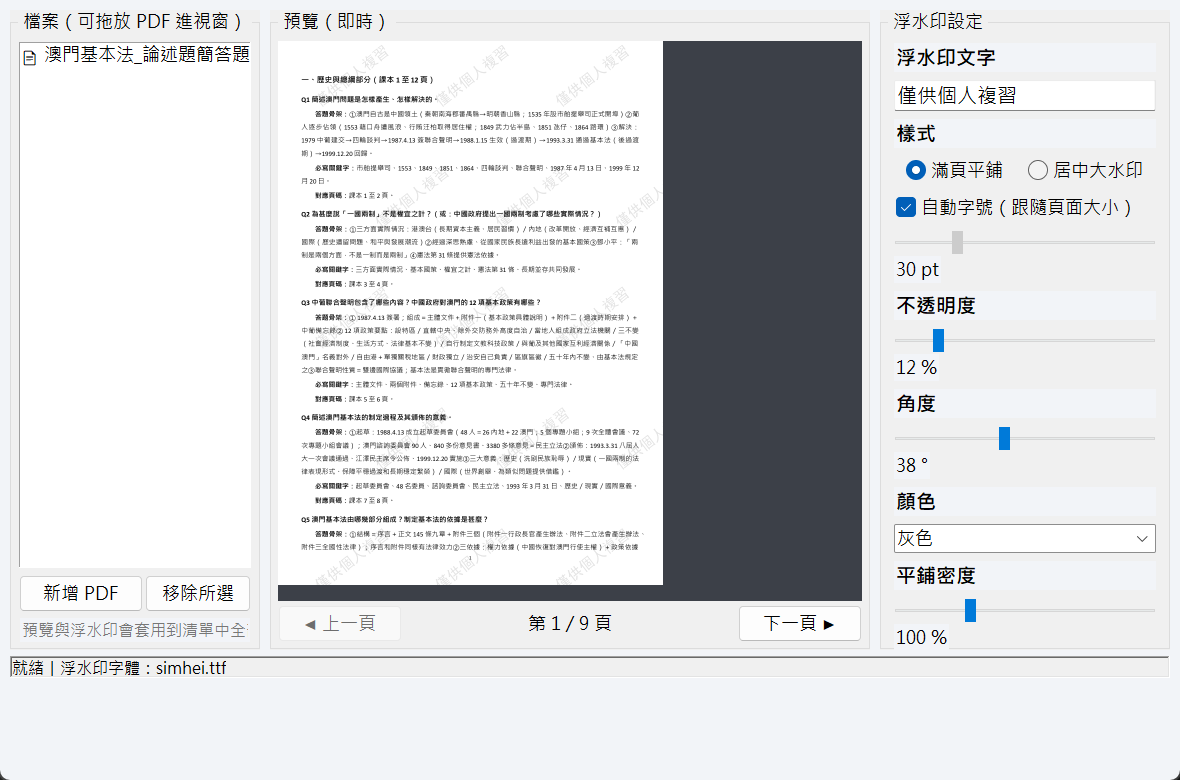
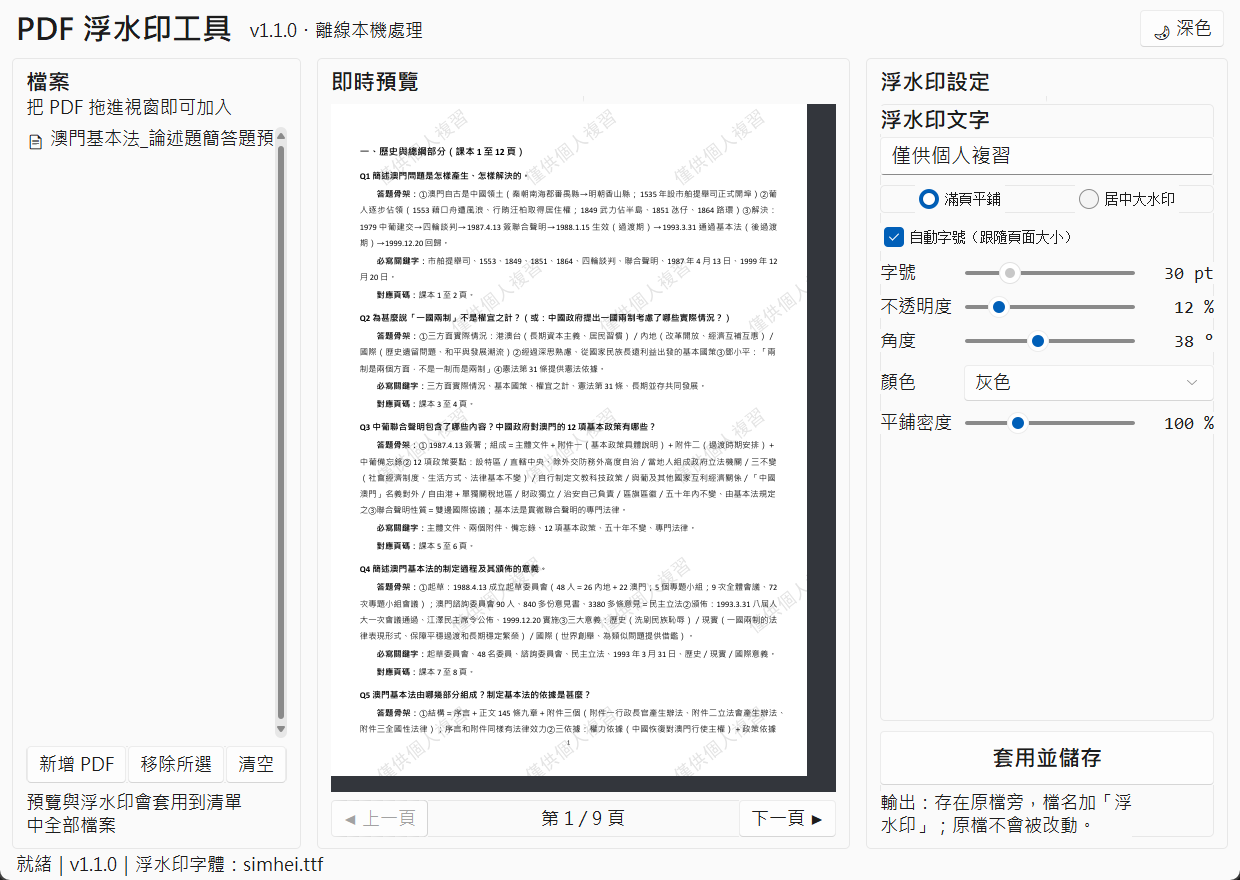
UI 大改版：Sun Valley 主題、卡片式版面、深淺色一鍵切換
- 改用 sv-ttk（Win11 風格 ttk 主題），右上角可切換深色／淺色
- 白卡片三欄版面、藍色強調主按鈕、自訂程式圖示
- 視窗標題列／工作列顯示自訂圖示（exe 內嵌 icon.ico）
- requirements 加 sv-ttk；pymupdf 維持 1.x（避免 2.x 體積膨脹）

diff --git a/README.md b/README.md
@@ -3,13 +3,18 @@
 > 簡單易用、即時預覽、100% 離線的 PDF 加水印工具。
 > An easy-to-use offline PDF watermark tool with live preview, built for Windows.
 
-![介面截圖](docs/screenshot.png)
+![淺色主題介面](docs/screenshot.png)
+
+*右上角一鍵切換深色模式：*
+
+![深色主題介面](docs/screenshot_dark.png)
 
 ## ✨ 特色
 
 - 🖼 **即時預覽**：任何設定一改動，預覽立刻重繪，所見即所得（預覽與輸出使用同一套排版引擎）
 - 🖱 **拖放操作**：把 PDF 直接拖進視窗即可加入清單，支援一次多個檔案批次套用
 - 🎛 **參數全可調**：水印文字、滿頁平鋪／居中大水印、字號（可自動）、不透明度、角度、顏色、平鋪密度
+- 🌙 **深色／淺色主題**：一鍵切換 Windows 11 風格現代介面（[Sun Valley ttk](https://github.com/rdbende/Sun-Valley-ttk-theme)）
 - 🔒 **100% 離線**：所有處理都在本機完成，檔案絕不上傳任何伺服器
 - 🛡 **原檔安全**：輸出另存新檔（檔名加「浮水印」後綴），原檔永不會被改動；加密 PDF 自動略過
 - 🀄 **中文友好**：介面與水印文字皆支援中文（自動使用系統黑體／微軟正黑）
